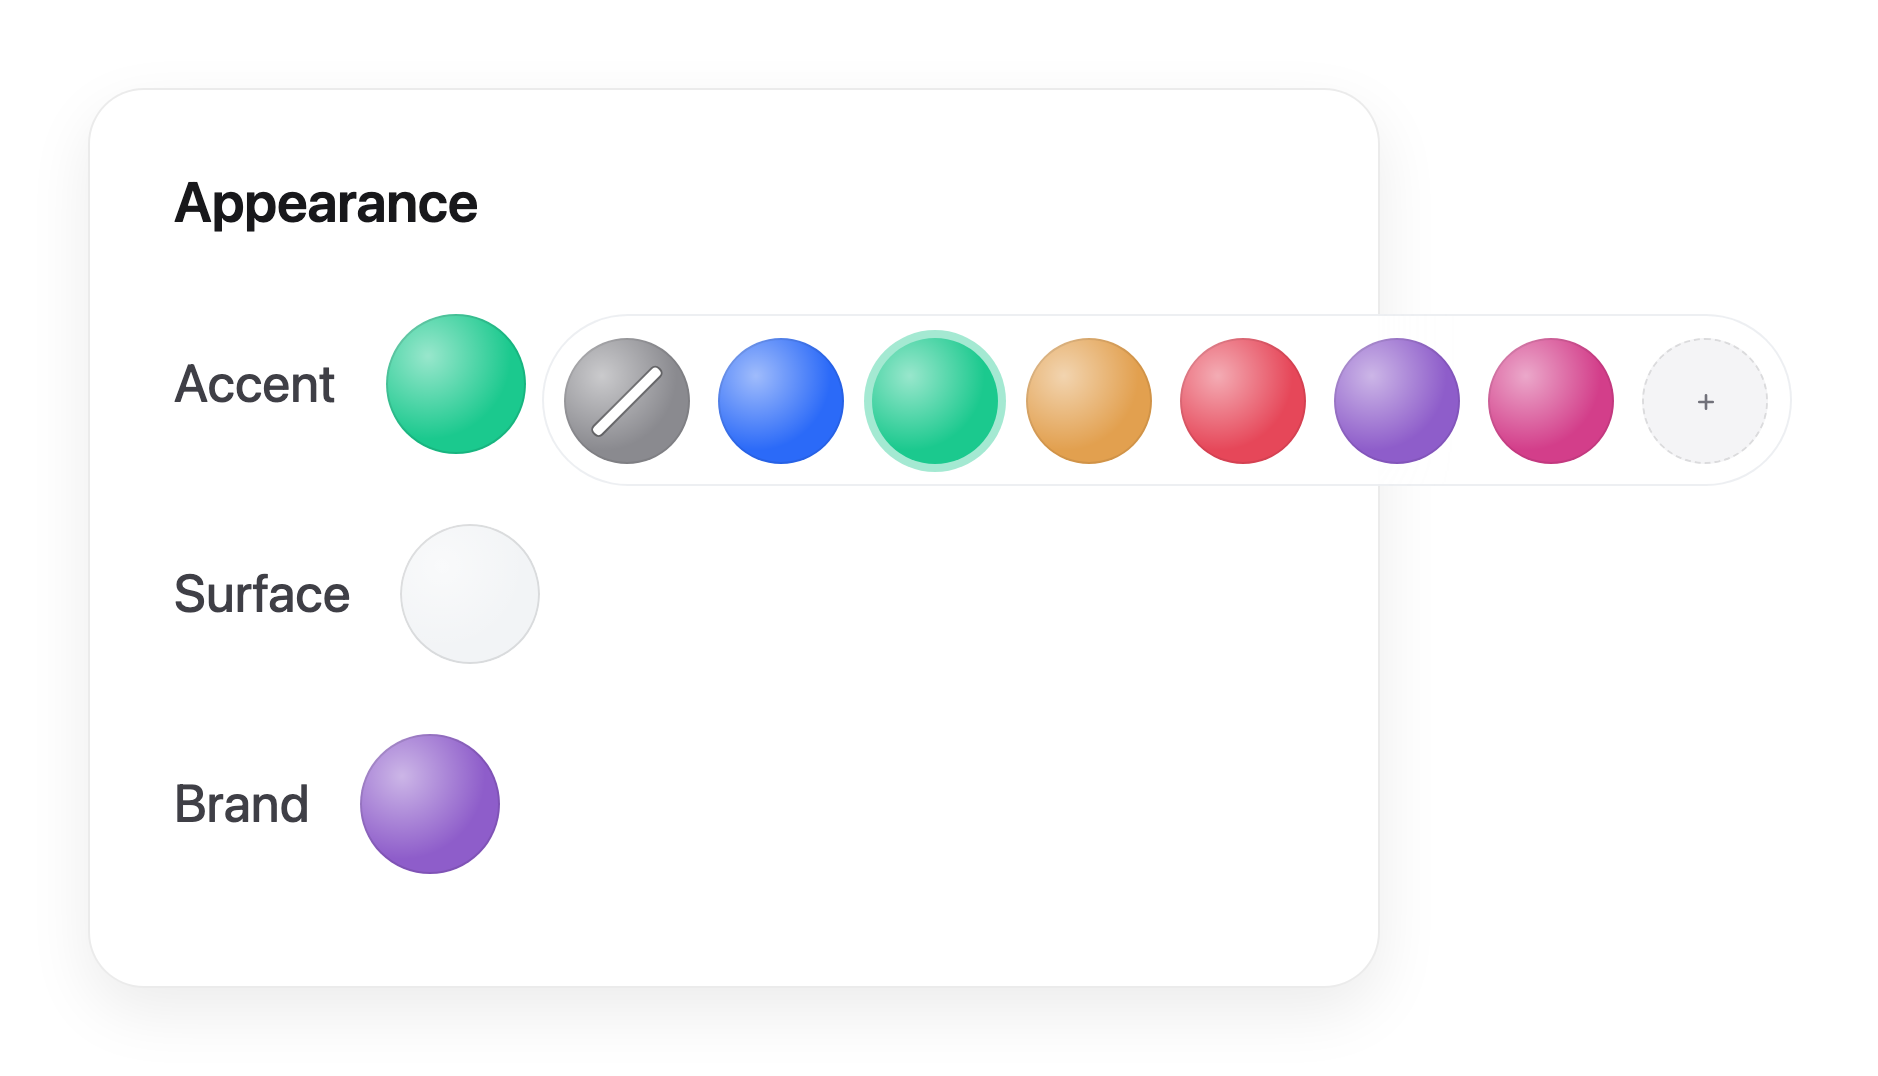
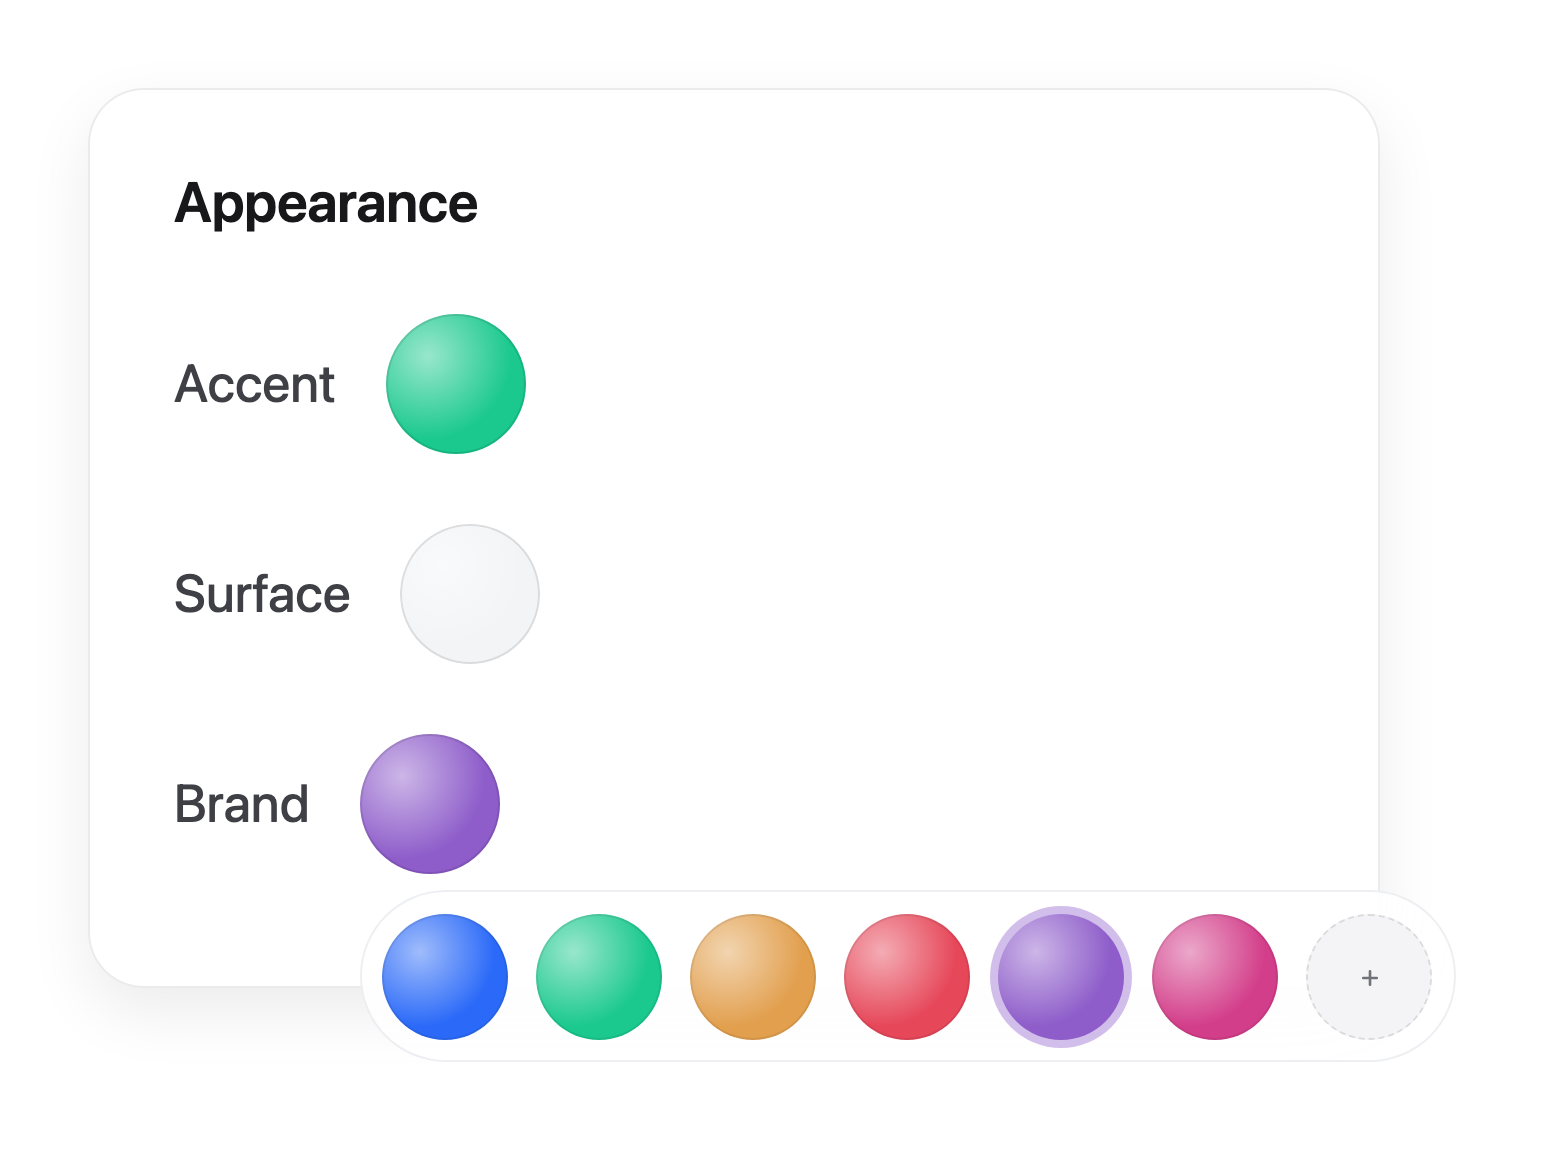
feat(docs): the whole gradient, and the tray on the last row
`background-size: cover` was cropping the supplied gradient — only a slice of
it ever reached the frame, which is why it did not look like the artwork it
came from. Stretched to the canvas instead: a soft gradient has no hard edges
to distort, so every part of the original stays visible and the only cost is
how far the shape is squashed. Four aspect ratios show that trade.

The tray moved to the Brand row. As the last row, a bottom-start tray opens
into clear space below the card rather than landing on the next control, which
was the reason it needed a sideways placement before. Brand is not clearable,
so the default toggle is gone with it.

diff --git a/playground/src/Demo.vue b/playground/src/Demo.vue
@@ -22,14 +22,10 @@ const brand = ref<string | null>('#8e5dca')
 
       <div class="row">
         <span class="row__label">Accent</span>
-        <!-- Opens beside its own row rather than below it. Bottom placement
-             drops the tray onto the next row down, where it reads as belonging
-             to that control instead of this one. -->
         <ColorPicker
           v-model="accent"
           range="full"
           clearable
-          placement="right-start"
           default-color="#8a8a8f"
           recent-key="demo:accent"
         />
